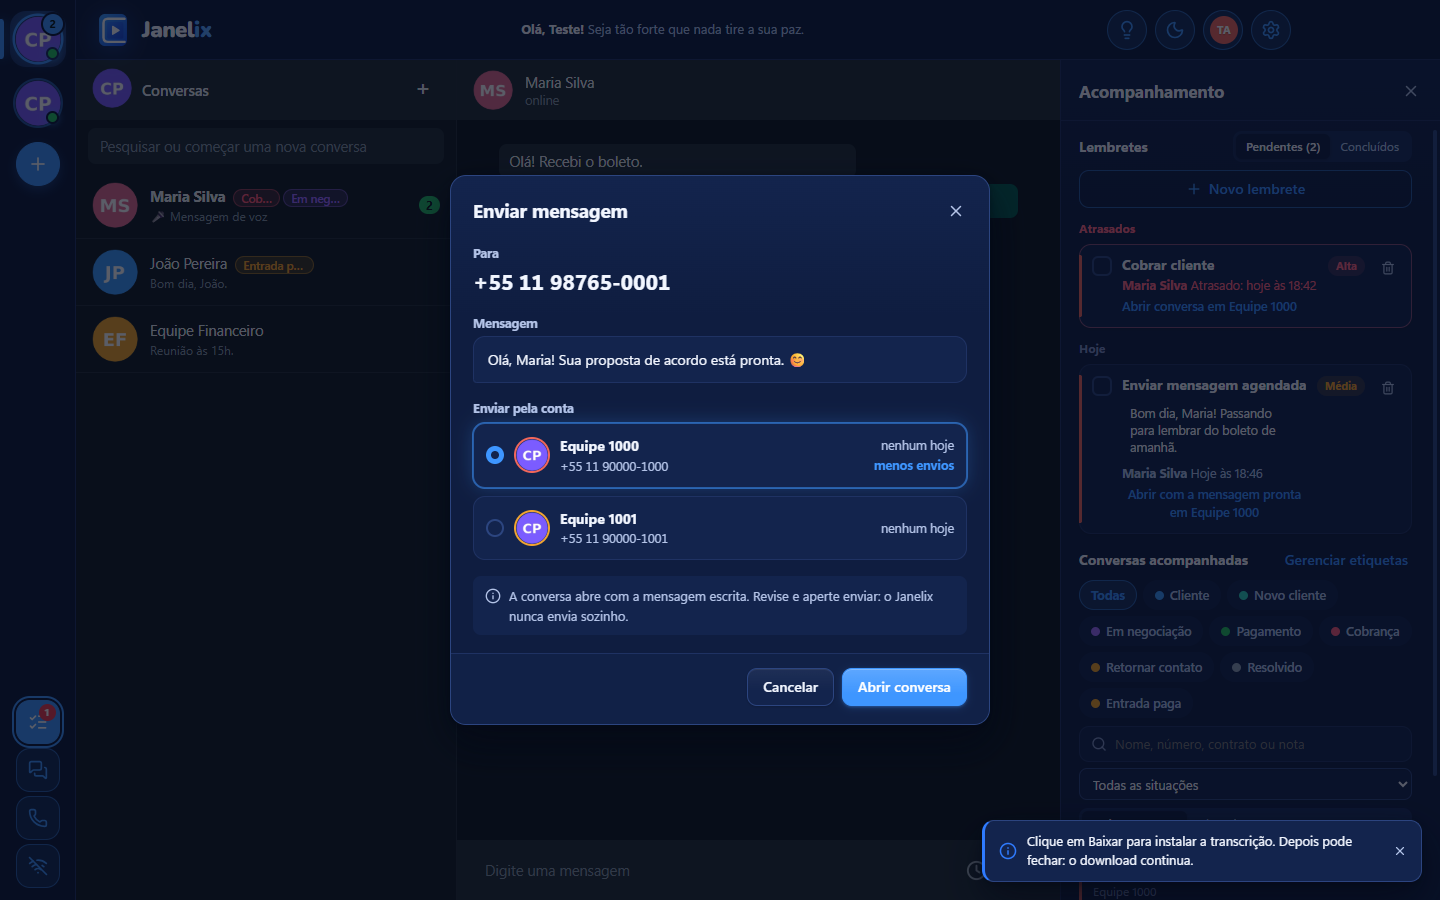
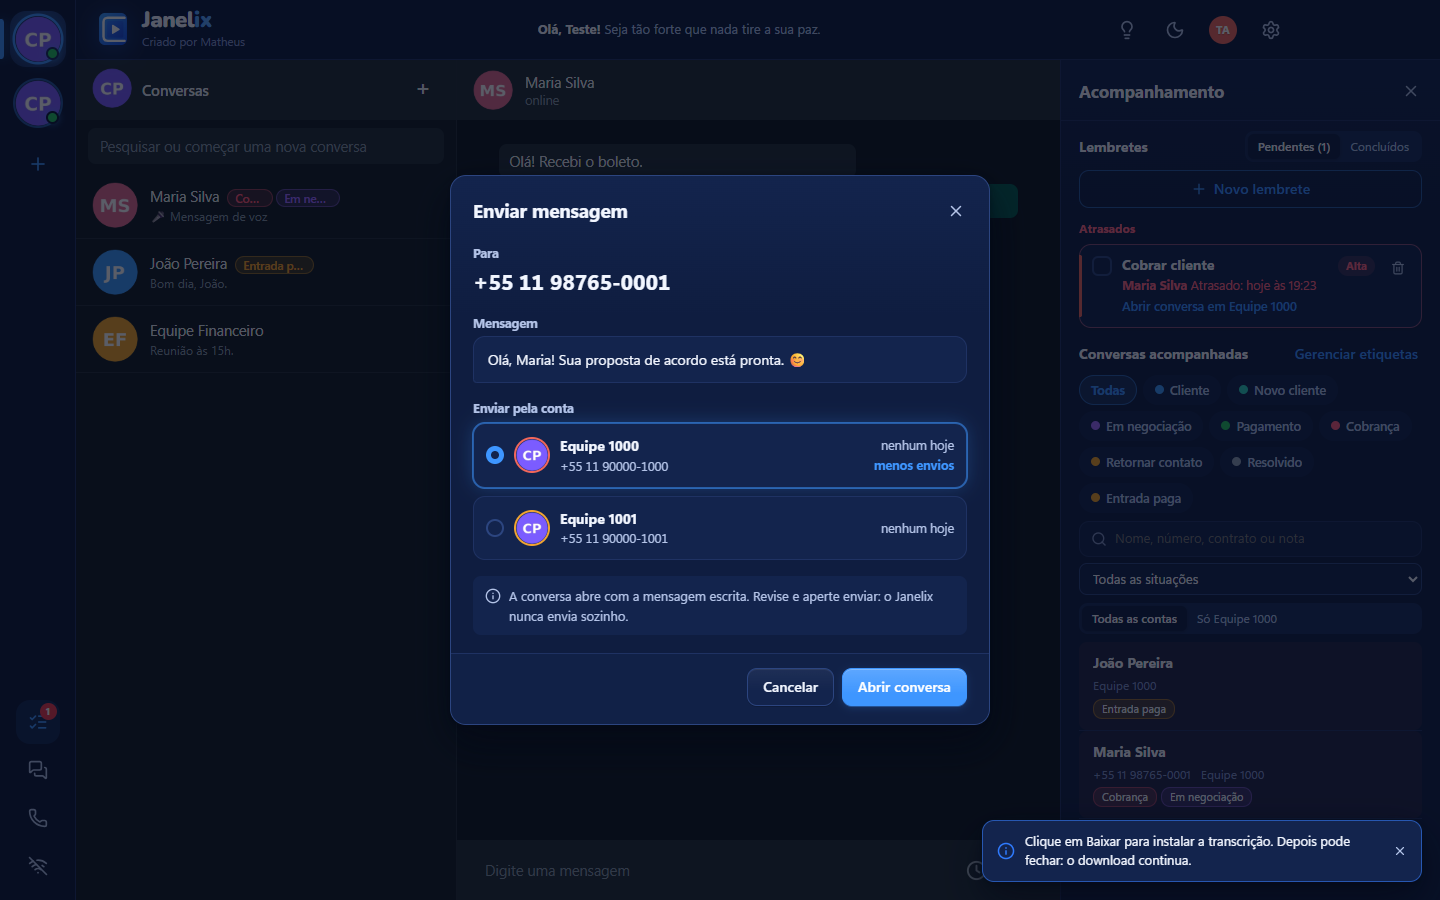
Versão 2.0.41

diff --git a/index.html b/index.html
@@ -122,7 +122,7 @@
             <div class="app" aria-hidden="true">
               <div class="app-topo">
                 <img class="app-logo" src="assets/logo.svg" alt="" width="22" height="22" />
-                <span class="app-nome"><span>Janel<b>ix</b></span></span>
+                <span class="app-nome"><span>Janel<b>ix</b></span><small>Criado por Matheus</small></span>
                 <span class="app-frase"><strong>Olá, Ana!</strong> Cada cliente bem atendido conta.</span>
                 <span class="app-rec" data-rec><i></i>Gravando ligação <b data-rec-t>00:00</b><span class="app-rec-quem">Maria Silva</span></span>
               </div>
@@ -559,14 +559,10 @@
             <p class="final-req">Para Windows 10 e 11</p>
           </div>
           <div class="novidades">
-            <h3>Novidades da versão <span id="v-num">2.0.40</span></h3>
+            <h3>Novidades da versão <span id="v-num">2.0.41</span></h3>
             <ul id="notas">
-              <li>Tela inicial mais limpa: sem o logo repetido na lateral, e novo modelo de vidro nos botões. Em Configurações, escolha entre Vidro e Padrão.</li>
-              <li>O painel de Acompanhamento só abre quando você clica.</li>
-              <li>O tamanho da tela agora fica em Configurações. Ctrl + e Ctrl − continuam funcionando.</li>
-              <li>Histórico de conversas: guarda só conversas individuais, sem grupos, e a mesma pessoa não fica mais dividida em duas conversas.</li>
-              <li>Transcrição: um áudio não pega mais o texto do áudio seguinte.</li>
-              <li>Etiquetas: com dois contatos de mesmo nome, o Janelix avisa em vez de marcar o contato errado.</li>
+              <li>Botões mais limpos no modelo Padrão. O balão de vidro fica no modelo Vidro, em Configurações.</li>
+              <li>Avisos e listas com visual mais leve.</li>
             </ul>
           </div>
         </div>

diff --git a/estilo.css b/estilo.css
@@ -487,8 +487,7 @@ code {
   box-shadow:
     inset 0 1px 0 rgba(255, 255, 255, 0.06),
     0 0 0 1px rgba(138, 180, 255, 0.14),
-    0 40px 90px -30px rgba(0, 0, 0, 0.9),
-    0 0 120px -20px rgba(31, 107, 255, 0.35);
+    0 40px 90px -30px rgba(0, 0, 0, 0.9);
 }
 
 .app {
@@ -706,7 +705,7 @@ code {
   width: 40px;
   height: 40px;
   border-radius: 50%;
-  background: var(--c, #6b7c85);
+  background: var(--c, #5c6c75);
   color: #fff;
   font: 800 13px/1 var(--font);
 }
